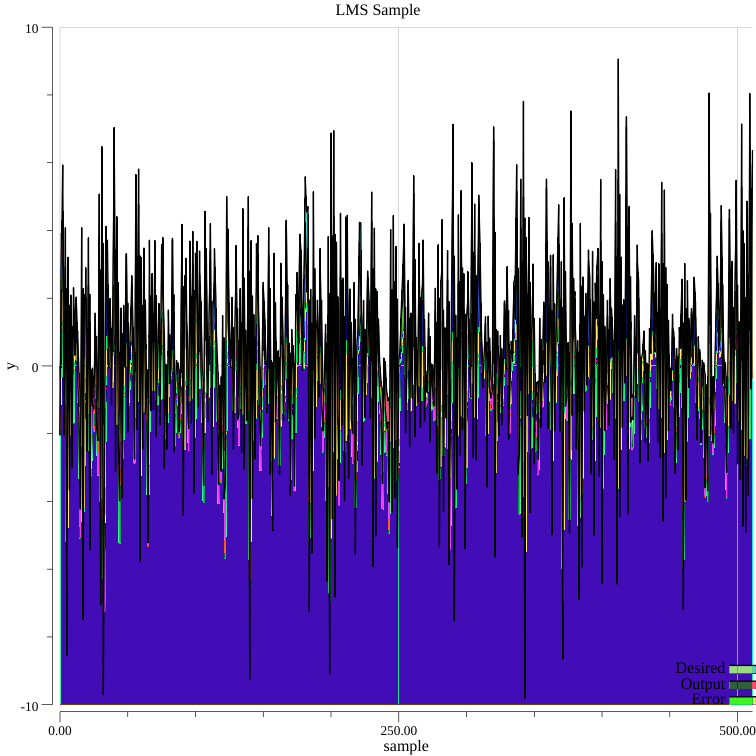
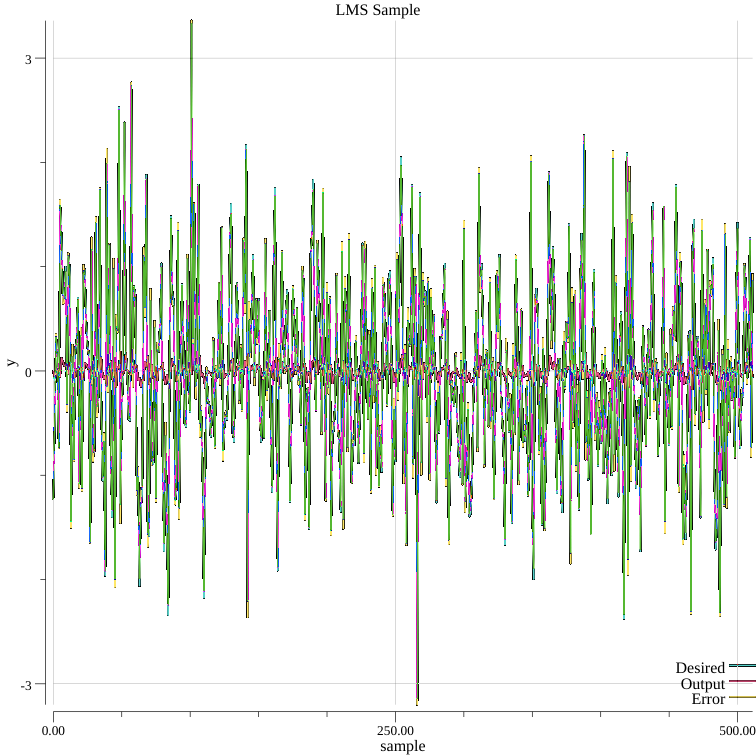
Add ex

diff --git a/adflib/example/lms_ex/main.go b/adflib/example/lms_ex/main.go
@@ -16,6 +16,20 @@ func init() {
 	rand.Seed(1)
 }
 
+func unset(s []float64, i int) []float64 {
+	if i >= len(s) {
+		return s
+	}
+	return append(s[:i], s[i+1:]...)
+}
+
+const (
+	//step size of filter
+	mu = 0.1
+	//length of filter
+	L = 64
+)
+
 func main() {
 	//creation of data
 	//number of samples
@@ -26,18 +40,17 @@ func main() {
 	var v = make([]float64, n)
 	//desired value
 	var d = make([]float64, n)
-	var xRow = make([]float64, 4)
+	var xRow = make([]float64, L)
 	for i := 0; i < n; i++ {
-		for j := 0; j < 4; j++ {
-			xRow[j] = rand.NormFloat64()
-		}
+		xRow = unset(xRow, 0)
+		xRow = append(xRow, rand.NormFloat64())
 		x[i] = xRow
 		v[i] = rand.NormFloat64() * 0.1
-		d[i] = 1.5*x[i][0] + 0.8*x[i][1] + 2*x[i][2] + 0.4*x[i][3] + v[i]
+		d[i] = x[i][0]
 	}
 
 	//identification
-	f, err := adflib.NewFiltLMS(4, 0.1, "zeros")
+	f, err := adflib.NewFiltLMS(L, mu, "zeros")
 	if err != nil {
 		log.Fatalln(err)
 	}
@@ -85,9 +98,9 @@ func main() {
 	if err != nil {
 		log.Fatalln(err)
 	}
-	plotD.FillColor = color.RGBA{R: 87, G: 209, B: 201, A: 1}
-	plotY.FillColor = color.RGBA{R: 237, G: 84, B: 133, A: 1}
-	plotE.FillColor = color.RGBA{R: 255, G: 232, B: 105, A: 1}
+	plotD.Color = color.RGBA{R: 87, G: 209, B: 201, A: 1}
+	plotY.Color = color.RGBA{R: 237, G: 84, B: 133, A: 1}
+	plotE.Color = color.RGBA{R: 255, G: 232, B: 105, A: 1}
 	//plotD.GlyphStyle.Color = color.RGBA{R: 87, G: 209, B: 201, A: 1}
 	//plotY.GlyphStyle.Color = color.RGBA{R: 237, G: 84, B: 133, A: 1}
 	//plotE.GlyphStyle.Color = color.RGBA{R: 255, G: 232, B: 105, A: 1}
@@ -103,13 +116,13 @@ func main() {
 	p.Legend.Add("Error", plotE)
 
 	//座標範囲
-	p.Y.Min = -10
-	p.Y.Max = 10
-	// plot.pngに保存
-	if err := p.Save(20*vg.Centimeter, 20*vg.Centimeter, "plot.png"); err != nil {
+	//p.Y.Min = -10
+	//p.Y.Max = 10
+
+	name := fmt.Sprintf("lms_ex_mu-%v_L-%v.png", mu, L)
+	if err := p.Save(20*vg.Centimeter, 20*vg.Centimeter, name); err != nil {
 		log.Fatalln(err)
 	}
-	name := "lms_out.csv"
 	fw, err := os.Create(name)
 	if err != nil{
 		log.Fatalln(err)

diff --git a/adflib/example/lms_on/main.go b/adflib/example/lms_on/main.go
@@ -1,0 +1,74 @@
+package main
+
+import (
+	"fmt"
+	"github.com/tetsuzawa/go-research/adflib"
+	"log"
+	"math/rand"
+	"os"
+)
+
+func init() {
+	rand.Seed(1)
+}
+
+func unset(s []float64, i int) []float64 {
+	if i >= len(s) {
+		return s
+	}
+	return append(s[:i], s[i+1:]...)
+}
+
+const (
+	//step size of filter
+	mu = 0.1
+	//length of filter
+	L = 64
+)
+
+func main() {
+	//creation of data
+	//number of samples
+	n := 512
+	//input value
+	var x = make([][]float64, n)
+	//noise
+	var v = make([]float64, n)
+	//desired value
+	var d = make([]float64, n)
+	var xRow = make([]float64, L)
+	for i := 0; i < n; i++ {
+		xRow = unset(xRow, 0)
+		xRow = append(xRow, rand.NormFloat64())
+		x[i] = xRow
+		v[i] = rand.NormFloat64() * 0.1
+		d[i] = x[i][0]
+	}
+
+	//identification
+	f, err := adflib.NewFiltLMS(L, mu, "zeros")
+	if err != nil {
+		log.Fatalln(err)
+	}
+
+	f.
+
+	y, e, _, err := f.Run(d, x)
+	if err != nil {
+		log.Fatalln(err)
+	}
+
+
+	name := fmt.Sprintf("lms_ex_mu-%v_L-%v.png", mu, L)
+	fw, err := os.Create(name)
+	if err != nil{
+		log.Fatalln(err)
+	}
+	defer fw.Close()
+	for i:=0; i<n; i++ {
+		_, err = fw.Write([]byte(fmt.Sprintf("%f,%f,%f\n", d[i], y[i], e[i])))
+		if err != nil{
+			log.Fatalln(err)
+		}
+	}
+}

diff --git a/adflib/lms.go b/adflib/lms.go
@@ -27,7 +27,7 @@ func NewFiltLMS(n int, mu float64, w interface{}) (*FiltLMS, error) {
 	return p, nil
 }
 
-func (af *FiltLMS) adapt(d float64, x []float64) {
+func (af *FiltLMS) Adapt(d float64, x []float64) {
 	y := floats.Dot(af.w, x)
 	e := d - y
 	for i := 0; i < len(x); i++ {
